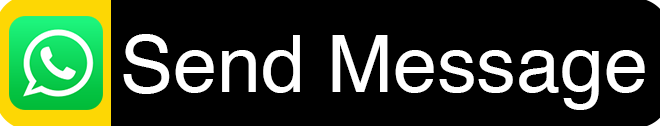
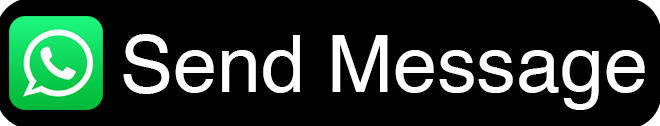
social

Changed region(s): [[0.0, 0.0, 0.1818, 1.0], [0.9697, 0.0, 1.0, 0.1667], [0.9697, 0.8571, 1.0, 1.0]]

diff --git a/README.md b/README.md
@@ -8,7 +8,9 @@
 ### Connect with me:
 
 <h1 align="center">
-  <a href="https://wa.me/447795080328"><img src="./img/whatsapp.png" height="30px" border-radius:5px /></a>
+  
+[![website](./img/whatsapp-light.png)](https://wa.me/447795080328#gh-light-mode-only)
+[![website](./img/skype-dark1.svg)](https://join.skype.com/invite/cLoBSzxGYKtS#gh-dark-mode-only)
 &nbsp;&nbsp;
 [![website](./img/skype-light1.svg)](https://join.skype.com/invite/cLoBSzxGYKtS#gh-light-mode-only)
 [![website](./img/skype-dark1.svg)](https://join.skype.com/invite/cLoBSzxGYKtS#gh-dark-mode-only)
